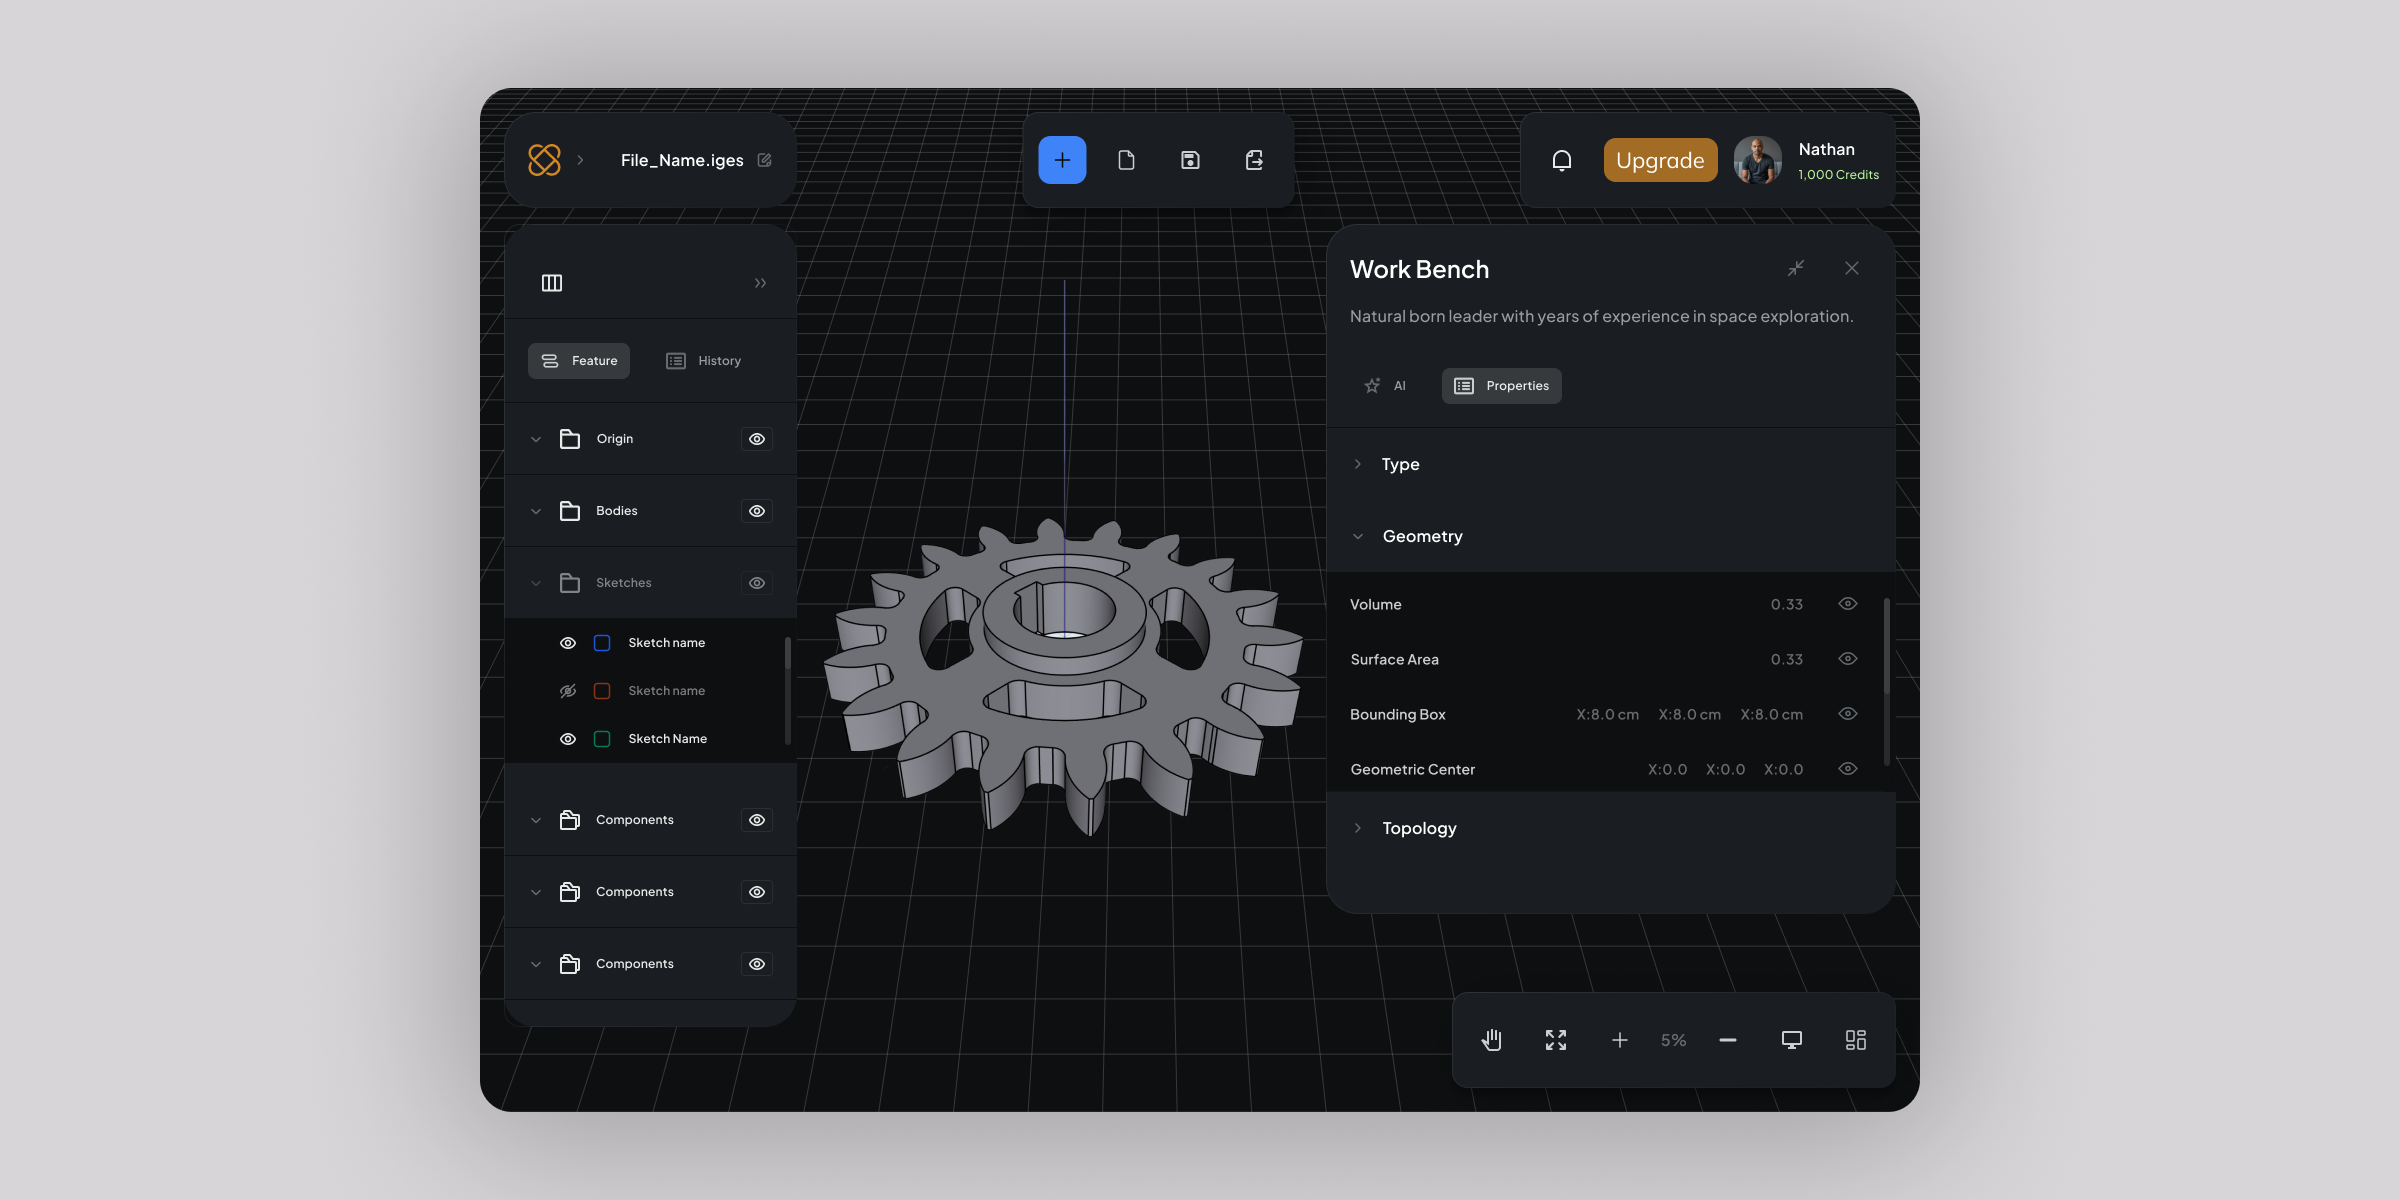
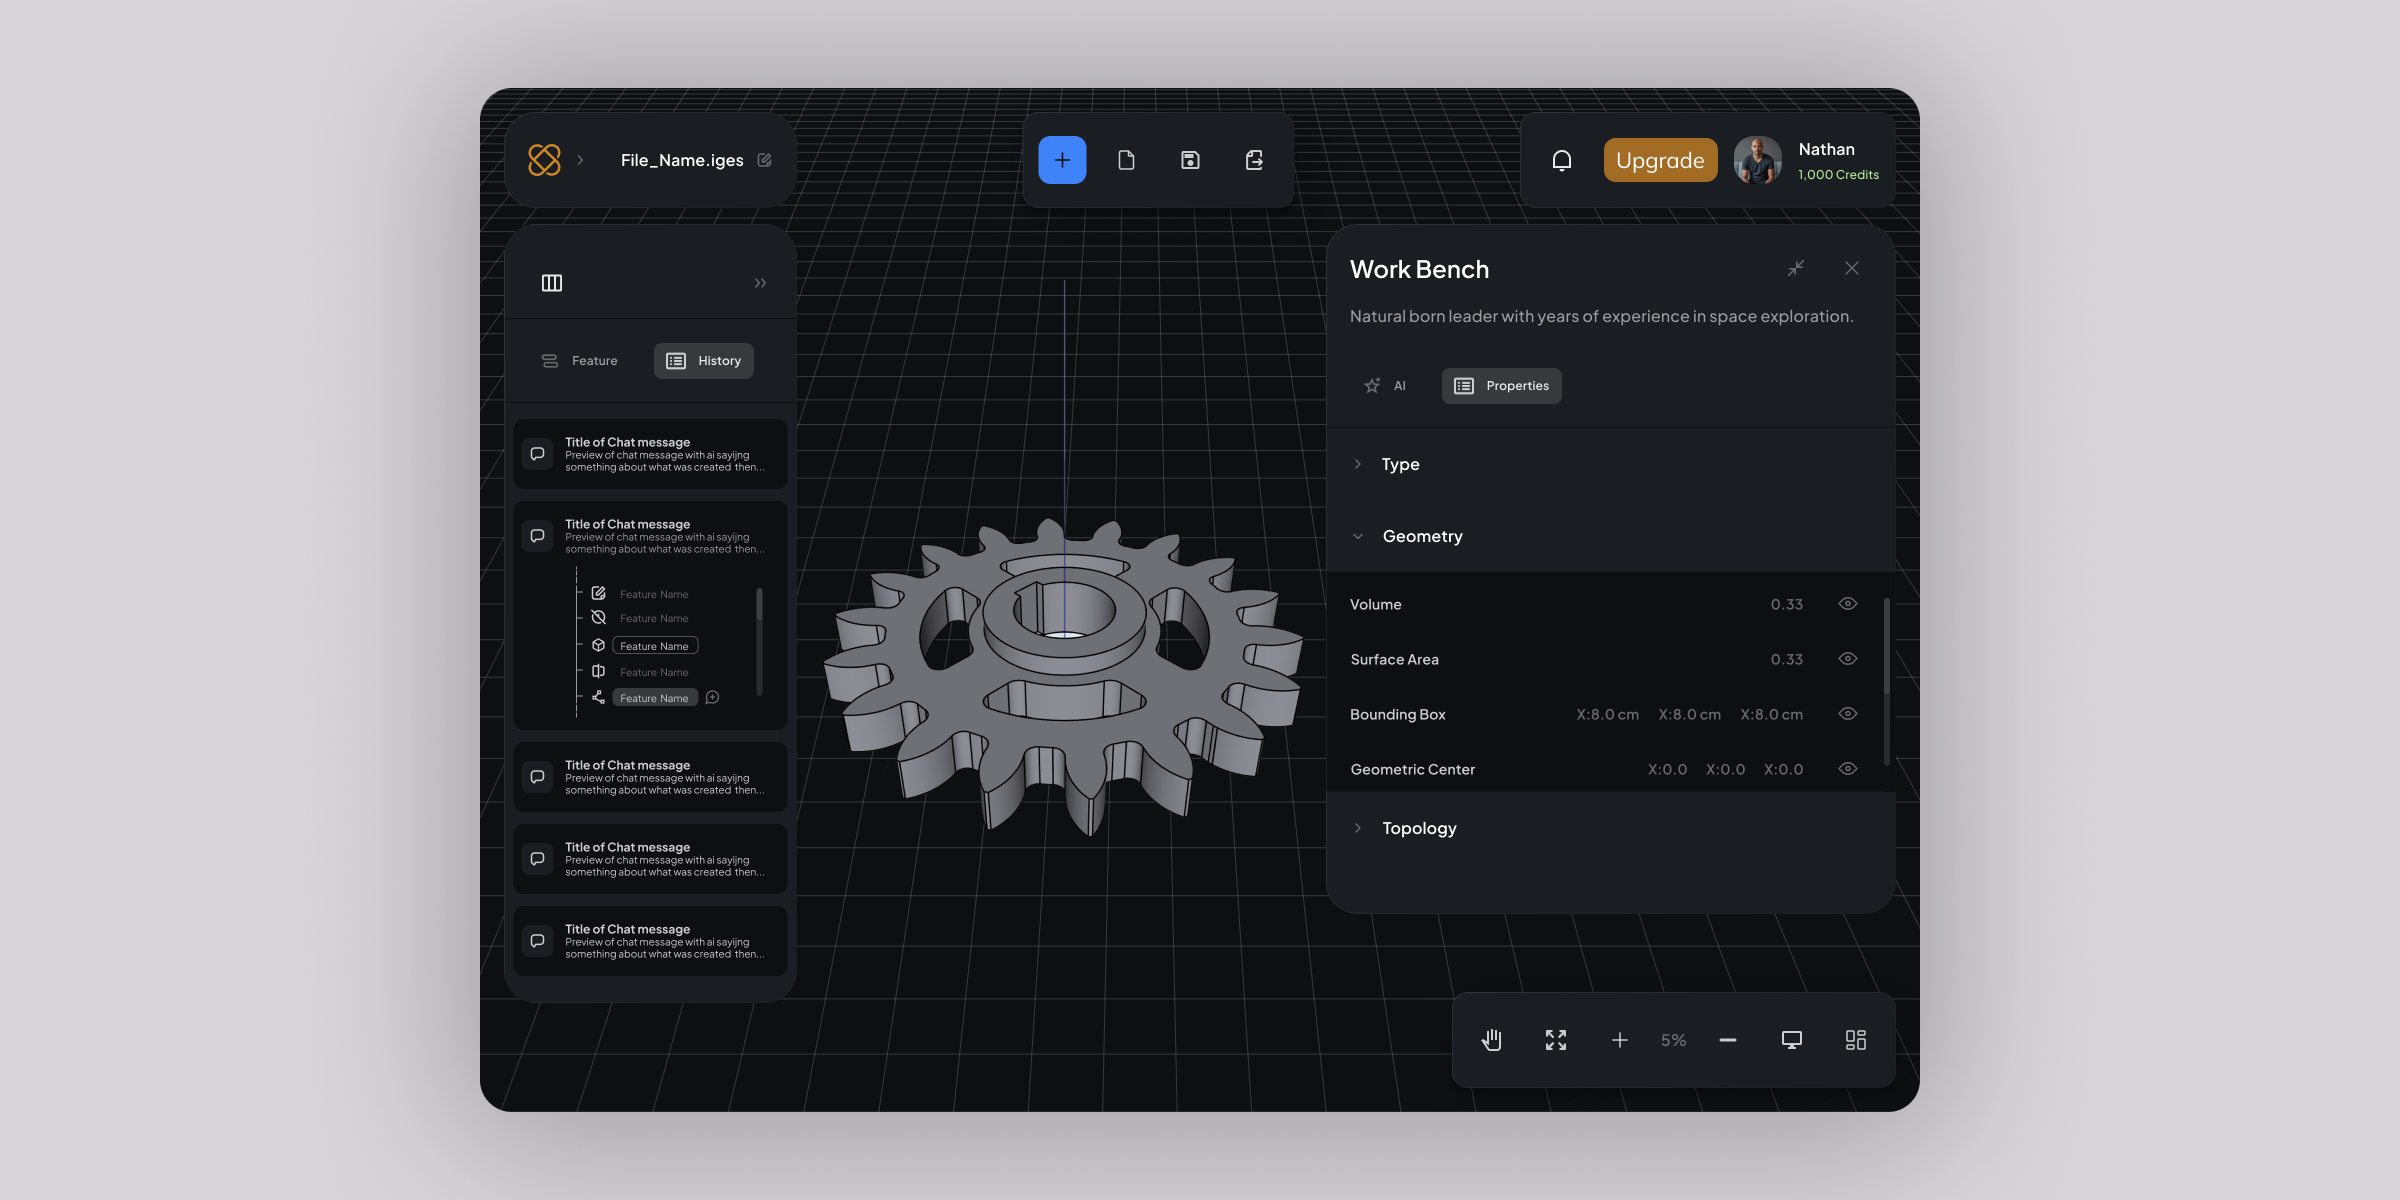
Land the Agentic Platform imagery from the owner's Engen folder, layout unchanged
The six files in the owner's Engen Case Study folder, nothing else, in file order: Hero.png as the hero, the four workspace states as the two pairs, UI Intro last (owner direction). The template's seven-frame layout stands, so the middle full-width slot keeps its placeholder until a seventh file arrives; every frame keeps its ratio and the renders crop to it. Replaces the earlier pass that used files from another folder and dropped a block.

Changed region(s): [[0.2188, 0.4317, 0.3125, 0.8325], [0.2188, 0.2775, 0.3125, 0.4008], [0.3125, 0.5242, 0.3438, 0.555]]

diff --git a/src/content/case-studies/agentic-platform.ts b/src/content/case-studies/agentic-platform.ts
@@ -24,21 +24,18 @@ import type { CaseStudy } from "@/lib/types";
  * slugified (Taxonomy §8, §6); `title` and `description` are DRAFT
  * metadata.
  *
- * **Imagery (owner-supplied, 2026-09-14): six renders from the
- * project's portfolio folder, in this order.** The owner set both ends:
- * the laptop render is the hero and the interface overview ("UI
- * Intro") is the last image. Between them, the two workflow diagrams
- * as a pair and two workspace states full-width. Six of the folder's
- * twelve: the intro board repeats the hero's laptop under a title, and
- * five of the six workspace states differ only by which panel is open,
- * so one of each ships and the rest are a `src` swap away. **The
+ * **Imagery (owner-supplied, 2026-09-14): the six files in the owner's
+ * "Engen Case Study" folder, nothing else, in file order.** The owner
+ * set both ends: `Hero.png` (the laptop) is the hero and `UI Intro.png`
+ * is the last image. **The block layout is the template's default
+ * rhythm and does not move for a study** (owner rule): hero, pair,
+ * full-width, pair, full-width, seven frames. Six files fill six of
+ * them; the middle full-width slot renders the placeholder until the
+ * owner supplies a seventh image or says which slot goes. **The
  * frames keep the template's ratios and the renders crop to them**
- * (owner rule: the image adjusts to the container, never the container
- * to the image): `16/9` for the hero, the full-width states and the
- * closing overview, `4/3` for the pair, `object-cover` centring each.
- * The 2:1 workspace shots sit in the `16/9` slots, where they lose a
- * sliver of width, rather than in the pair, where they would lose
- * their side panels. The files live at
+ * (owner rule: the image adjusts to the container, never the
+ * container to the image): `16/9` for the hero and the full-width
+ * slots, `4/3` for the pairs, `object-cover` centring each. Files at
  * `/public/work/agentic-platform/agentic-platform-0<n>.png` in page
  * order, in the format the owner supplied, renamed kebab-case per
  * Taxonomy §8.
@@ -62,7 +59,7 @@ export const AGENTIC_PLATFORM = {
     { label: "Scope", value: "Design and build" },
     { label: "Platform", badges: ["agentic-platform"] },
   ],
-  /* agentic-platform-01: the laptop render (owner: the hero). */
+  /* agentic-platform-01, the owner's Hero.png: the laptop. */
   hero: {
     src: "/work/agentic-platform/agentic-platform-01.png",
     alt: "A laptop showing the CAD workspace: a gear model on a dark gridded canvas, the feature tree on the left and the Work Bench panel with the agent prompt on the right.",
@@ -77,26 +74,26 @@ export const AGENTIC_PLATFORM = {
         "A separate window splits the job: the request lives in the chat, the result in the model, and nothing shows what changed. The agent had to work where the modeling happens.",
       ],
     },
-    /* agentic-platform-02 and -03: the two workflow diagrams. */
+    /* agentic-platform-02 and -03: UI Collapsed and UI Expanded 1. */
     {
       type: "pair",
       images: [
         {
           src: "/work/agentic-platform/agentic-platform-02.png",
-          alt: "The AI workflow diagram: the user uploads a file and writes a prompt, the agent asks clarifying questions, the model converts the query to scripts and the CAD engine executes the commands.",
+          alt: "The empty workspace: a dark gridded canvas with the file chip, the toolbar, the account chip and a lone cube, every panel collapsed.",
         },
         {
           src: "/work/agentic-platform/agentic-platform-03.png",
-          alt: "The MVP process flow: the user answers questions, the model checks parts against the spec or converts the query to scripts, headless CAD executes them, and the user reviews, converts and exports the file.",
+          alt: "The workspace with the Work Bench open on its AI tab: the prompt asks for a gear based on the uploaded document, with Define, Design and Analyze actions beneath it.",
         },
       ],
     },
-    /* agentic-platform-04: the workspace with the agent prompt open. */
+    /* The seventh frame: no seventh file in the owner's folder, so the
+       placeholder holds the slot rather than the layout changing. */
     {
       type: "image",
       image: {
-        src: "/work/agentic-platform/agentic-platform-04.png",
-        alt: "The workspace with the Work Bench open on its AI tab: the prompt asks for a gear based on the uploaded document, with Define, Design and Analyze actions beneath it and the gear model in the center.",
+        alt: "The full interface: the gear model in the workspace and the assistant panel to its side.",
       },
     },
     {
@@ -108,13 +105,19 @@ export const AGENTIC_PLATFORM = {
         "The model had to stay primary. The agent could not cover it or pull the work into another screen, and the user needed a way to step in at any point.",
       ],
     },
-    /* agentic-platform-05: the workspace with the properties open. */
+    /* agentic-platform-04 and -05: UI Expanded 2 and UI Expanded 6. */
     {
-      type: "image",
-      image: {
-        src: "/work/agentic-platform/agentic-platform-05.png",
-        alt: "The workspace with the Work Bench on its Properties tab, the gear's geometry expanded: volume, surface area, bounding box and geometric center beside the model.",
-      },
+      type: "pair",
+      images: [
+        {
+          src: "/work/agentic-platform/agentic-platform-04.png",
+          alt: "The workspace with the feature tree expanded to its sketches and the Work Bench on its AI tab, the gear model in the center.",
+        },
+        {
+          src: "/work/agentic-platform/agentic-platform-05.png",
+          alt: "The workspace with the History tab open, a chat message expanded to its feature list, and the Work Bench on its Properties tab showing the gear's geometry.",
+        },
+      ],
     },
     {
       type: "text",
@@ -125,12 +128,12 @@ export const AGENTIC_PLATFORM = {
         "The panel holds the request and the agent's reply beside the model, so the exchange and the result share one screen. The dark palette keeps the geometry in front, and the model view never gives up the center.",
       ],
     },
-    /* agentic-platform-06: the interface overview (owner: the last image). */
+    /* agentic-platform-06, the owner's UI Intro.png: the last image. */
     {
       type: "image",
       image: {
         src: "/work/agentic-platform/agentic-platform-06.png",
-        alt: "The interface overview: the empty workspace above the UI kit title, then the component sheet of toolbars, feature trees, history lists and Work Bench states.",
+        alt: "The interface overview: the empty workspace above the UI kit title, with the component sheet of toolbars, feature trees, history lists and the Work Bench beginning beneath.",
       },
     },
   ],

diff --git a/briefs/build-notes/30-case-study-template.md b/briefs/build-notes/30-case-study-template.md
@@ -160,12 +160,10 @@ The files: `public/work/mascot/mascot-01.png` through `mascot-06` in page order,
 
 What the fixed frames crop, for the owner's eye: the `16/9` hero trims the top of the green handheld and the bottom of the blue one from the floating render (a 1.18:1 composition); the `4/3` pairs trim the top and bottom of the four near-square renders, whose subjects are centred, so nothing of consequence is lost; the closing composite (1.48:1) loses a little of the side view's lower edge. Verified in the browser at the pane's width and at 390: all six load through `next/image` (the two larger sources included), frames at 1.778 / 1.333 × 4 / 1.778, no overflow, no placeholder left on the route. `next/image` serves each at the width its slot needs, so the source sizes cost the repo, not the visitor.
 
-## Addendum — Agentic Platform's imagery lands (owner direction, same day)
+## Addendum — Agentic Platform's imagery lands, and two rules with it (same day)
 
-The owner pointed at an Engen folder for the Agentic Platform study (Engen is the product; the study keeps its published title, build-note 20) and set both ends: the laptop render is the hero and the interface overview ("UI Intro") is the last image. The attached folder (`__WORK/2026/Engen/`) held one 574 × 112 toolbar crop and nothing else; the set the owner described is in `__WORK/2025/Engenai/Portfolio/`, twelve files, and that is what shipped from — flagged here rather than silently substituted.
+The owner pointed at an Engen folder for the Agentic Platform study (Engen is the product; the study keeps its published title, build-note 20) and set both ends: the laptop is the hero and "UI Intro" is the last image. **A first pass got two things wrong and was reverted before it stayed up:** the first folder path resolved to a single toolbar crop, so the builder substituted renders from another Engen folder, and dropped one of the template's image blocks to fit six files. The owner rejected both, and the rules are now on file: **the owner's folder is the whole set, nothing outside it is used; the template's block layout does not change per study; the image adjusts to the frame, never the frame to the image.**
 
-Six of the twelve, in page order: `agentic-platform-01.png` the laptop (the owner's hero; 6144 × 3072, **4.4 MB**, the heaviest asset in the repo and the one to downsample if the repo size matters) · `02` and `03` the two workflow diagrams as the pair · `04` the workspace with the agent prompt open · `05` the workspace on the properties tab · `06` the interface overview (the owner's closer). Left out, and a `src` swap away: the intro board (the hero's laptop again under a title) and four more workspace states that differ only by which panel is open. Every frame keeps the template's ratio (owner rule) and the module doc block says which 2:1 shots went where and why. 7.8 MB together, shipped as supplied.
+What shipped, from the owner's `Next Sketch Branding/assets/Engen Case Study/` folder, six files in file order: `agentic-platform-01.png` `Hero.png`, the laptop (6144 × 3072, **4.7 MB**, the heaviest asset in the repo) · `02` `UI Collapsed` and `03` `UI Expanded 1` as the first pair · `04` `UI Expanded 2` and `05` `UI Expanded 6` as the second pair · `06` `UI Intro`, the closer (2400 × 1922). **The middle full-width slot is the placeholder**: the template's rhythm has seven frames and the folder holds six, and the layout does not move, so the seventh waits for a seventh file or the owner's word on which slot goes. Every frame keeps the template's ratio: the hero and the two workspace pairs are 2:1 shots, so the `16/9` hero loses a sliver of width and the `4/3` pairs lose the outer sixth on each side (the feature tree's left edge and the Work Bench's right edge); the closer is 1.25:1, so the `16/9` frame keeps its middle 70%, the workspace and the UI-kit title. 8.7 MB together, shipped as supplied, renamed kebab-case (Taxonomy §8).
 
-What the fixed frames crop, for the owner's eye: the `16/9` hero and the two workspace states are 2:1, so each loses a sliver of width and nothing that matters; the `4/3` pair trims the top and bottom of the two diagrams (a title line and a caption each); **the closing overview is a tall 2:3 board, so the `16/9` frame shows its middle third** — the dark UI-kit panel and the top of the component sheet, not the "Interface" title above or the bottom of the sheet. That is the rule applied as stated; a wider crop of that board is the fix if the owner wants more of it. Also worth a look: the two diagrams in the pair carry the same introductory paragraph, so side by side they read as a repeat. Verified in the browser: all six load, frames at 1.778 / 1.333 × 2 / 1.778 × 3, no overflow, no placeholder left on the route.
-
-**Still on placeholders:** SaaS Platform and Parcell. The pattern is set: a folder of renders, named into `public/work/<slug>/`, one `src` line per slot.
+**Still on placeholders:** SaaS Platform and Parcell in full, and the Agentic Platform's seventh frame. Mascot ships six renders in six slots, one image block fewer than the template's rhythm; under the layout rule that wants the seventh slot back as a placeholder too, which is the owner's call and was not changed here.
